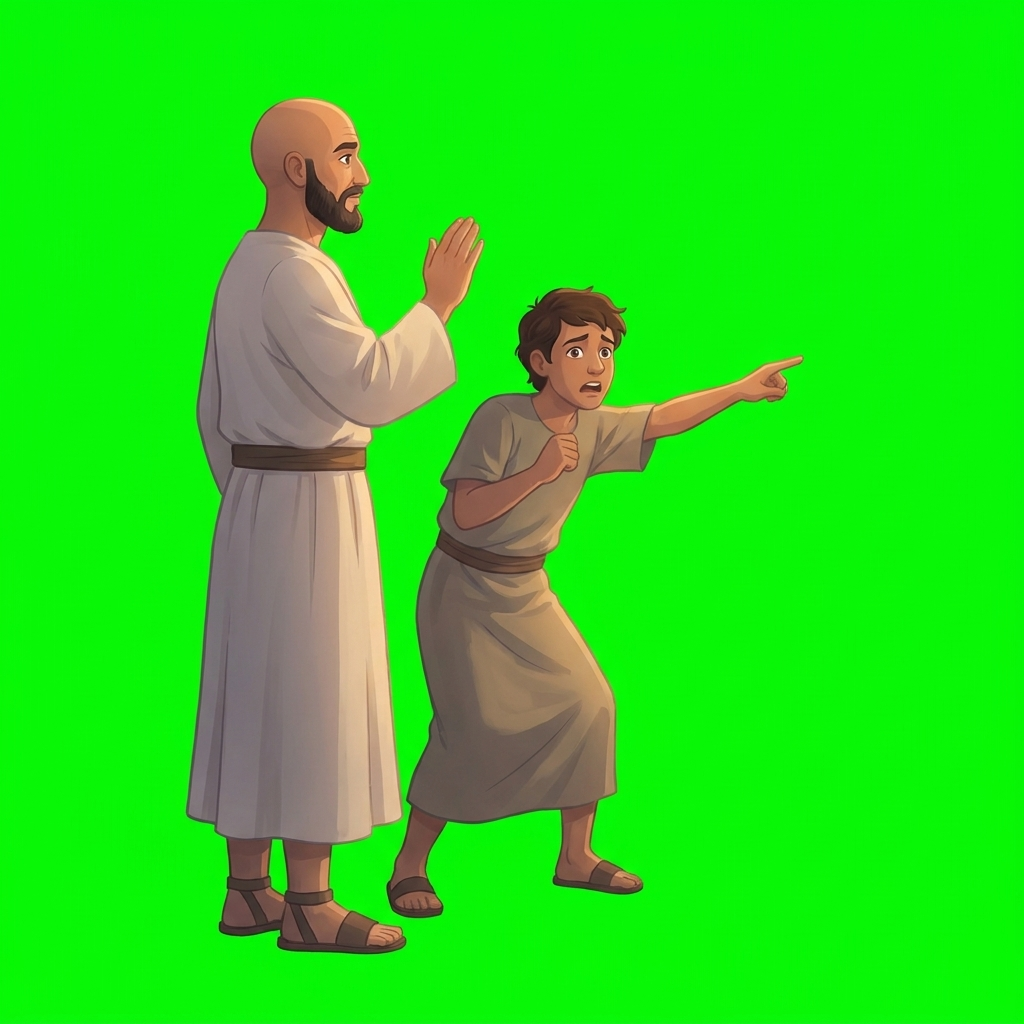
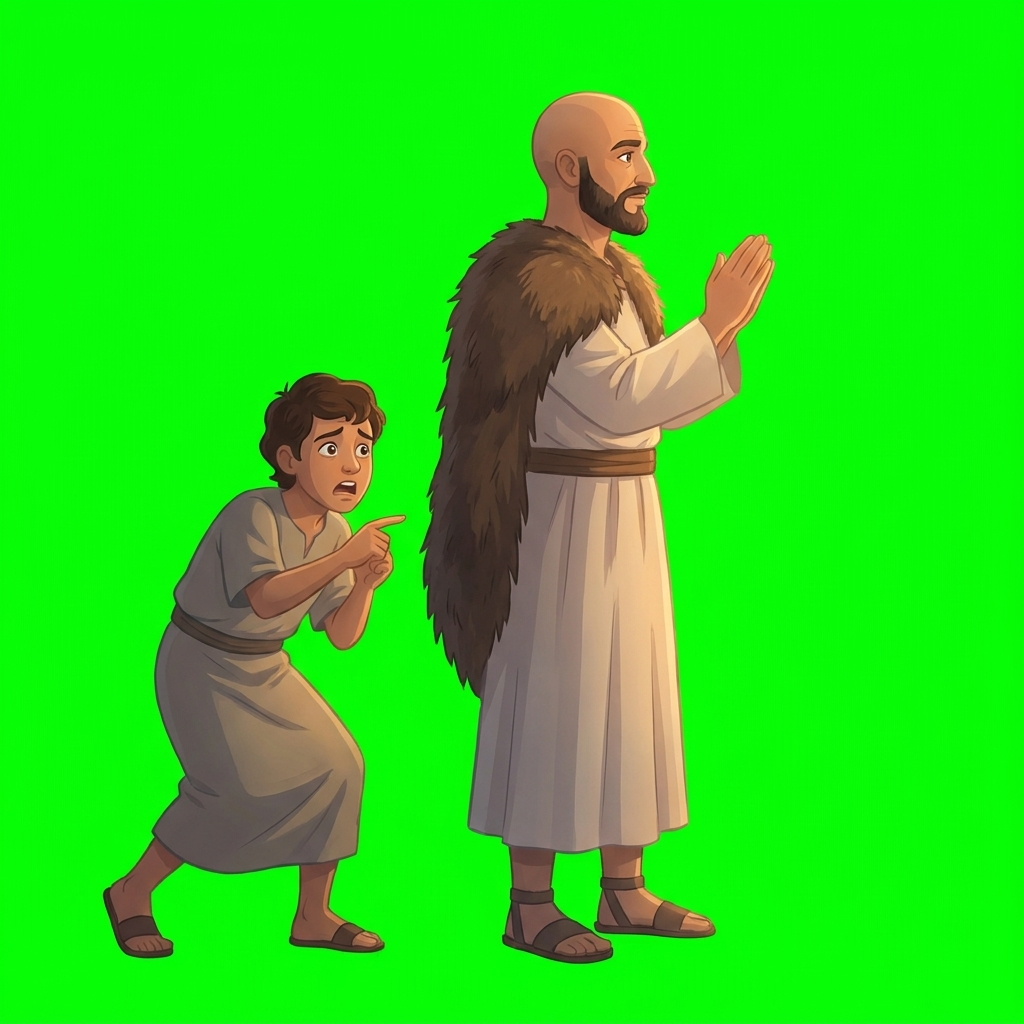
Game: open the servant's eyes to the chariots of fire at Dothan (k26)
Claude-Session: https://claude.ai/code/session_01NGi6jsbuaNDM2aRjR2VVsS

diff --git a/game-mini.js b/game-mini.js
@@ -2812,8 +2812,65 @@ const prison = { ...jericho, title: '한밤의 찬송과 흔들린 감옥', task
 function hymnNote(g, x, y, fast) { g.save(); g.translate(x, y); g.fillStyle = fast ? '#ffe29a' : '#f4ecd8'; g.strokeStyle = '#3a2a14'; g.lineWidth = 1.2;
   g.beginPath(); g.ellipse(-4, 8, 8, 6, -0.4, 0, 7); g.fill(); g.stroke(); g.fillRect(3, -16, 3, 24); g.beginPath(); g.moveTo(6, -16); g.quadraticCurveTo(18, -10, 14, 0); g.lineTo(13, -2); g.quadraticCurveTo(15, -8, 6, -11); g.fill(); g.restore(); }
 
+/* ---------- 도단을 둘러싼 불말과 불병거 (왕하 6:15–17): 눈을 열어 보기 — 찾기 ---------- */
+// 아람 군대가 둘러싼 산에 불말과 불병거가 숨어 있다. 끌면 '열린 눈'(빛 고리)이 손가락 조금 위를 따라가고, 그 안에서만 불병거가 보인다.
+// 불병거가 고리 가운데에 0.5초 머물면 찾은 것. 여섯을 찾으면 산 가득 불병거가 드러난다(6:17). 한동안 못 찾으면 가장 가까운 것이 희미하게 일렁인다
+const LENS = 56, SEEN = 0.6, CHARIOTS = 6;
+const dothan = {
+  title: '도단을 둘러싼 불말과 불병거', task: '눈을 열어 숨은 불병거 여섯 찾기', art: ['k26/bg', 'k26/firechariot', 'k26/elisha'],
+  ask: ['사환이 새벽에 나가 보니 아람 군대가 성을 에워쌌단다. 그는 떨며 어찌하리이까 외쳤지.', '두려워 말라 — 우리와 함께한 자가 더 많다. 눈을 열어 산을 살펴보렴!'],
+  quote: '여호와여 원하건대 그의 눈을 열어서 보게 하옵소서 하니', ref: '왕하 6:17',
+  help: '끌면 빛 고리(열린 눈)가 따라와요. 고리 안에서만 불병거가 보여요.<br>불병거를 고리 가운데에 잠깐 두면 찾아요. 여섯을 찾아요.',
+  seconds: 18,
+  init() { const C = []; for (let k = 0; C.length < CHARIOTS && k < 500; k++) { const x = rnd(50, 350), y = rnd(110, 300); if (C.every(c => Math.hypot(c.x - x, c.y - y) > 80)) C.push({ x, y, s: 0.6 + (y - 110) / 190 * 0.5, flip: Math.random() < 0.5, got: 0, dwell: 0 }); }
+    return { C, lx: 200, ly: 230, on: false, t: 0, last: 0, msg: null, sparks: [], found: 0 }; },
+  update(dt, S) {
+    S.t += dt; if (S.msg) S.msg.at -= dt;
+    for (const c of S.C) { if (c.got) { c.got = Math.min(1, c.got + dt); continue; }
+      const d = Math.hypot(c.x - S.lx, c.y - S.ly); if (S.on && d < 30) { c.dwell += dt; if (c.dwell >= SEEN) { c.got = 0.01; S.found++; S.last = S.t; S.fx.play('glint'); S.fx.play('coin');
+          S.msg = { t: S.found >= CHARIOTS ? '산에 불말과 불병거가 가득!' : '불병거가 보여요!', c: '#ffe29a', at: 1, x: c.x, y: c.y - 34 };
+          for (let i = 0; i < 16; i++) { const a = rnd(0, 7), v = rnd(30, 100); S.sparks.push({ x: c.x, y: c.y, vx: Math.cos(a) * v, vy: Math.sin(a) * v, life: rnd(0.4, 0.9) }); } } } else c.dwell = Math.max(0, c.dwell - dt * 2); }
+    for (const p of S.sparks) { p.x += p.vx * dt; p.y += p.vy * dt; p.life -= dt; } S.sparks = S.sparks.filter(p => p.life > 0);
+  },
+  down(x, y, S) { S.on = true; S.lx = x; S.ly = y - 50; },
+  move(x, y, S) { if (S.on) { S.lx = x; S.ly = y - 50; } },
+  up(S) { S.on = false; },
+  won: S => S.found >= CHARIOTS,
+  failText: () => '아직 다 보지 못했어요',
+  fire(g, c, a) { spr(g, 'k26/firechariot', c.x, c.y + 26 * c.s, 54 * c.s, { flip: c.flip, a }); },
+  draw(g, S) {
+    if (!bgArt(g, 'k26/bg')) { g.fillStyle = '#7a6a4a'; g.fillRect(0, 0, W, H); }
+    g.fillStyle = 'rgba(20,24,40,.22)'; g.fillRect(0, 0, W, H); // 새벽의 어스름
+    spr(g, 'k26/elisha', 74, 494, 120);
+    // 한동안 못 찾으면 가장 가까운 것이 일렁인다
+    const hint = S.t - S.last > 8; let nearest = null, nd = 1e9; for (const c of S.C) if (!c.got) { const d = Math.hypot(c.x - S.lx, c.y - S.ly); if (d < nd) { nd = d; nearest = c; } }
+    for (const c of S.C) { if (c.got) this.fire(g, c, c.got); else if (hint && c === nearest) { const a = 0.08 + 0.08 * Math.sin(S.t * 6); this.fire(g, c, a); } }
+    if (S.on) { // 열린 눈: 고리 안만 밝고 금빛, 그 안의 숨은 불병거가 보인다
+      g.save(); g.beginPath(); g.arc(S.lx, S.ly, LENS, 0, 7); g.clip();
+      g.fillStyle = 'rgba(255,220,140,.22)'; g.fillRect(0, 0, W, H);
+      for (const c of S.C) if (!c.got) this.fire(g, c, 0.95);
+      g.restore();
+      g.save(); g.shadowColor = '#ffd27a'; g.shadowBlur = 16; g.strokeStyle = 'rgba(255,230,160,.95)'; g.lineWidth = 3; g.beginPath(); g.arc(S.lx, S.ly, LENS, 0, 7); g.stroke(); g.restore();
+      for (const c of S.C) if (!c.got && c.dwell > 0) { g.strokeStyle = '#fff4c8'; g.lineWidth = 4; g.beginPath(); g.arc(S.lx, S.ly, 30, -Math.PI / 2, -Math.PI / 2 + c.dwell / SEEN * Math.PI * 2); g.stroke(); }
+    }
+    for (const p of S.sparks) { g.fillStyle = `rgba(255,220,140,${clamp(p.life, 0, 1)})`; star(g, p.x, p.y, 4); }
+    g.save(); g.font = '800 14px "Noto Sans KR",sans-serif'; g.textAlign = 'left'; g.lineWidth = 3; g.strokeStyle = 'rgba(20,16,10,.7)'; g.fillStyle = '#fff';
+    const t = `찾은 불병거 ${S.found} / ${CHARIOTS}`; g.strokeText(t, 14, 26); g.fillText(t, 14, 26); g.restore();
+    floatMsg(g, S.msg);
+  },
+  end(g, k, S) { // 산에 불말과 불병거가 가득(6:17)
+    this.update(0.016, S); this.draw(g, S);
+    S.extra ??= Array.from({ length: 18 }, () => ({ x: rnd(20, 380), y: rnd(90, 320), flip: Math.random() < 0.5 })).map(c => ({ ...c, s: 0.5 + (c.y - 90) / 230 * 0.5 }));
+    g.save(); g.globalCompositeOperation = 'lighter'; g.globalAlpha = 0.25 * k; g.fillStyle = '#ffb060'; g.fillRect(0, 0, W, 340); g.restore();
+    S.extra.forEach((c, i) => this.fire(g, c, clamp(k * 2.5 - i * 0.08, 0, 1)));
+    if (k > 0.35) { g.save(); g.globalAlpha = clamp((k - 0.35) * 2, 0, 1); g.fillStyle = 'rgba(30,18,8,.8)'; g.fillRect(0, 340, W, 84);
+      g.font = '700 16px "Gowun Batang",serif'; g.textAlign = 'center'; g.fillStyle = '#fff0d6'; g.fillText('그가 보니 불말과 불병거가 산에 가득하여', W / 2, 370); g.fillText('엘리사를 둘렀더라', W / 2, 394);
+      g.font = '600 11px "Noto Sans KR",sans-serif'; g.fillStyle = '#e6cfa6'; g.fillText('왕하 6:17', W / 2, 413); g.restore(); }
+  },
+};
+
 export const MINI = { jesus: { e04: magi, e11: cana, e17: fishing, e22: twelve, e23: rock, e28: bail, e31: loaves, e32: water, e39: stones, e42: sheep, e43: coin, e46: climb, e48: palms, e59: tiberias },
-  david: { d01: herdDavid, d05: sling, d16: cave, d24: arkDance, d38: templeStones }, moses: { m09: redSea, m12: manna, m14: hands, m35: jericho, m39: tribes }, paul: { a04: wallBasket, a17: prison, a37: viper }, kings: { k15: carmel, k24: naaman } };
+  david: { d01: herdDavid, d05: sling, d16: cave, d24: arkDance, d38: templeStones }, moses: { m09: redSea, m12: manna, m14: hands, m35: jericho, m39: tribes }, paul: { a04: wallBasket, a17: prison, a37: viper }, kings: { k15: carmel, k24: naaman, k26: dothan } };
 
 /* ---------- 놀이 틀: 소개 → 놀이(제한 시간) → 성공 연출/실패 → 결과 ---------- */
 // host: 모달 안의 상자. fx: { play, pour } (game-audio.js). 끝나면 done({ ok, left, tries })
